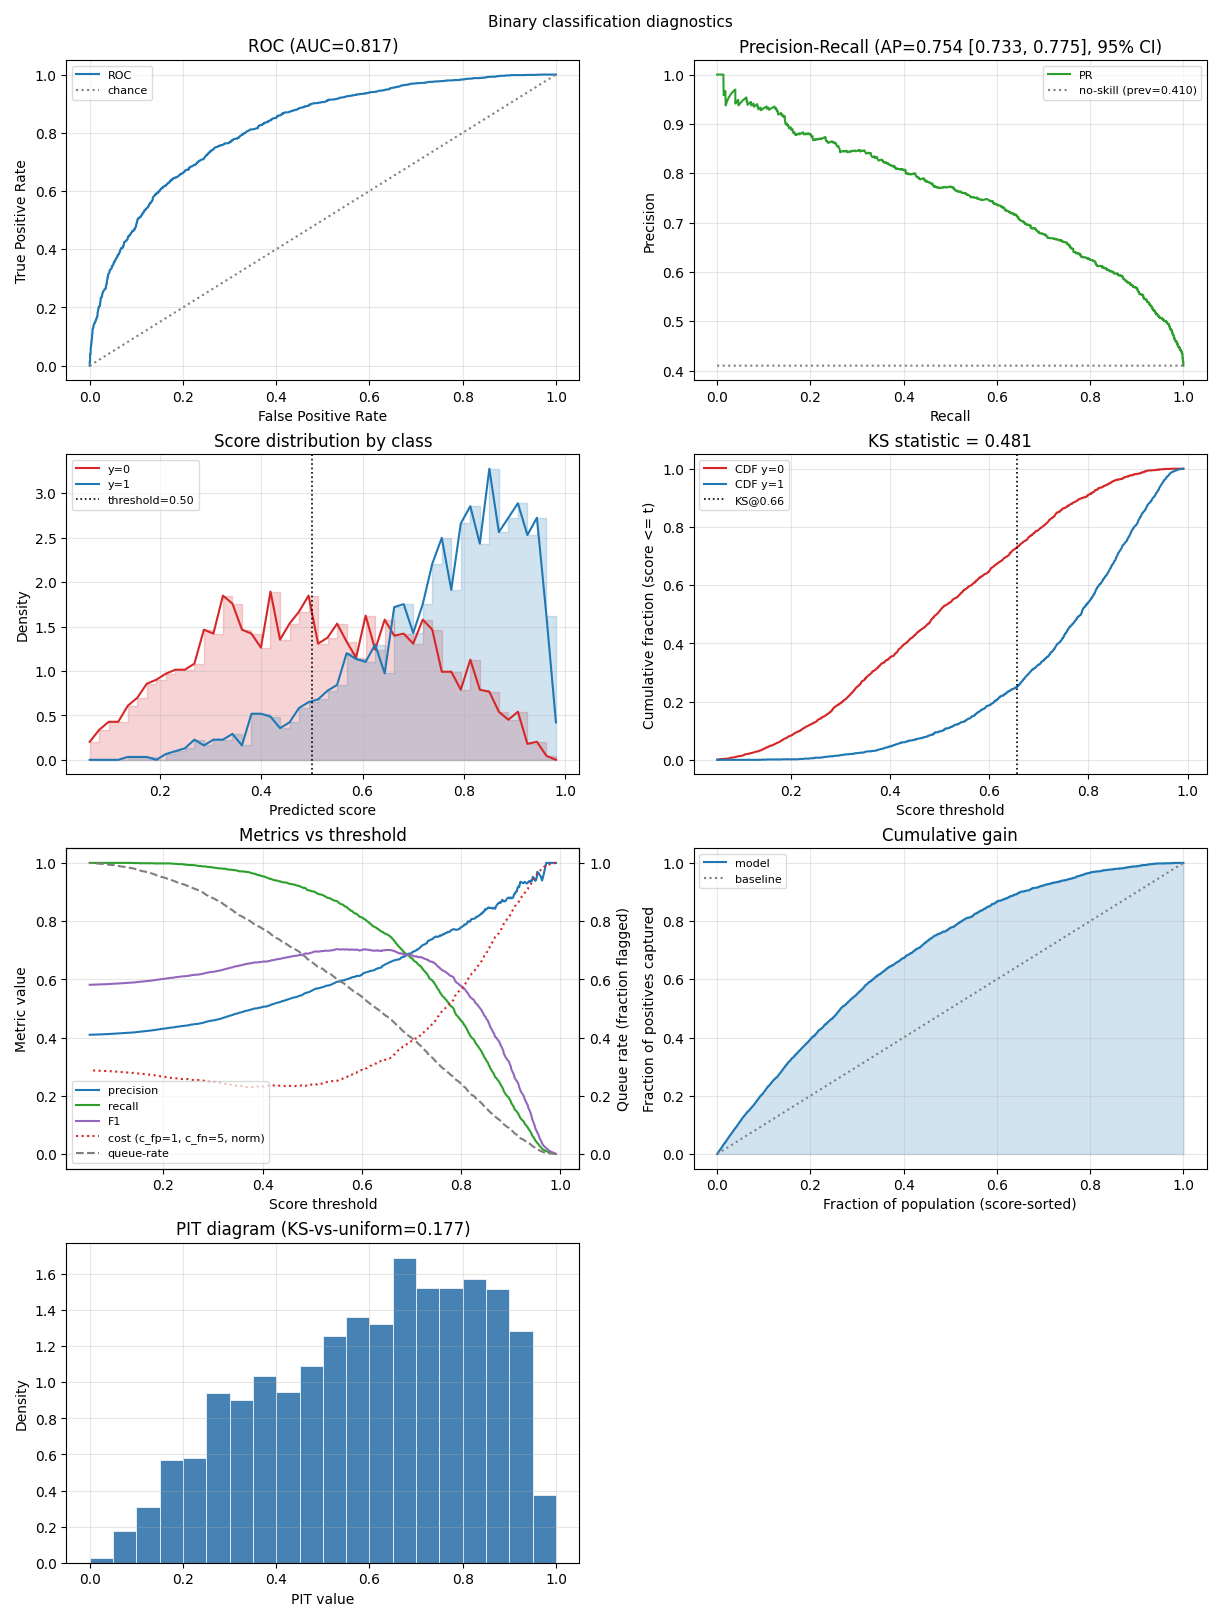
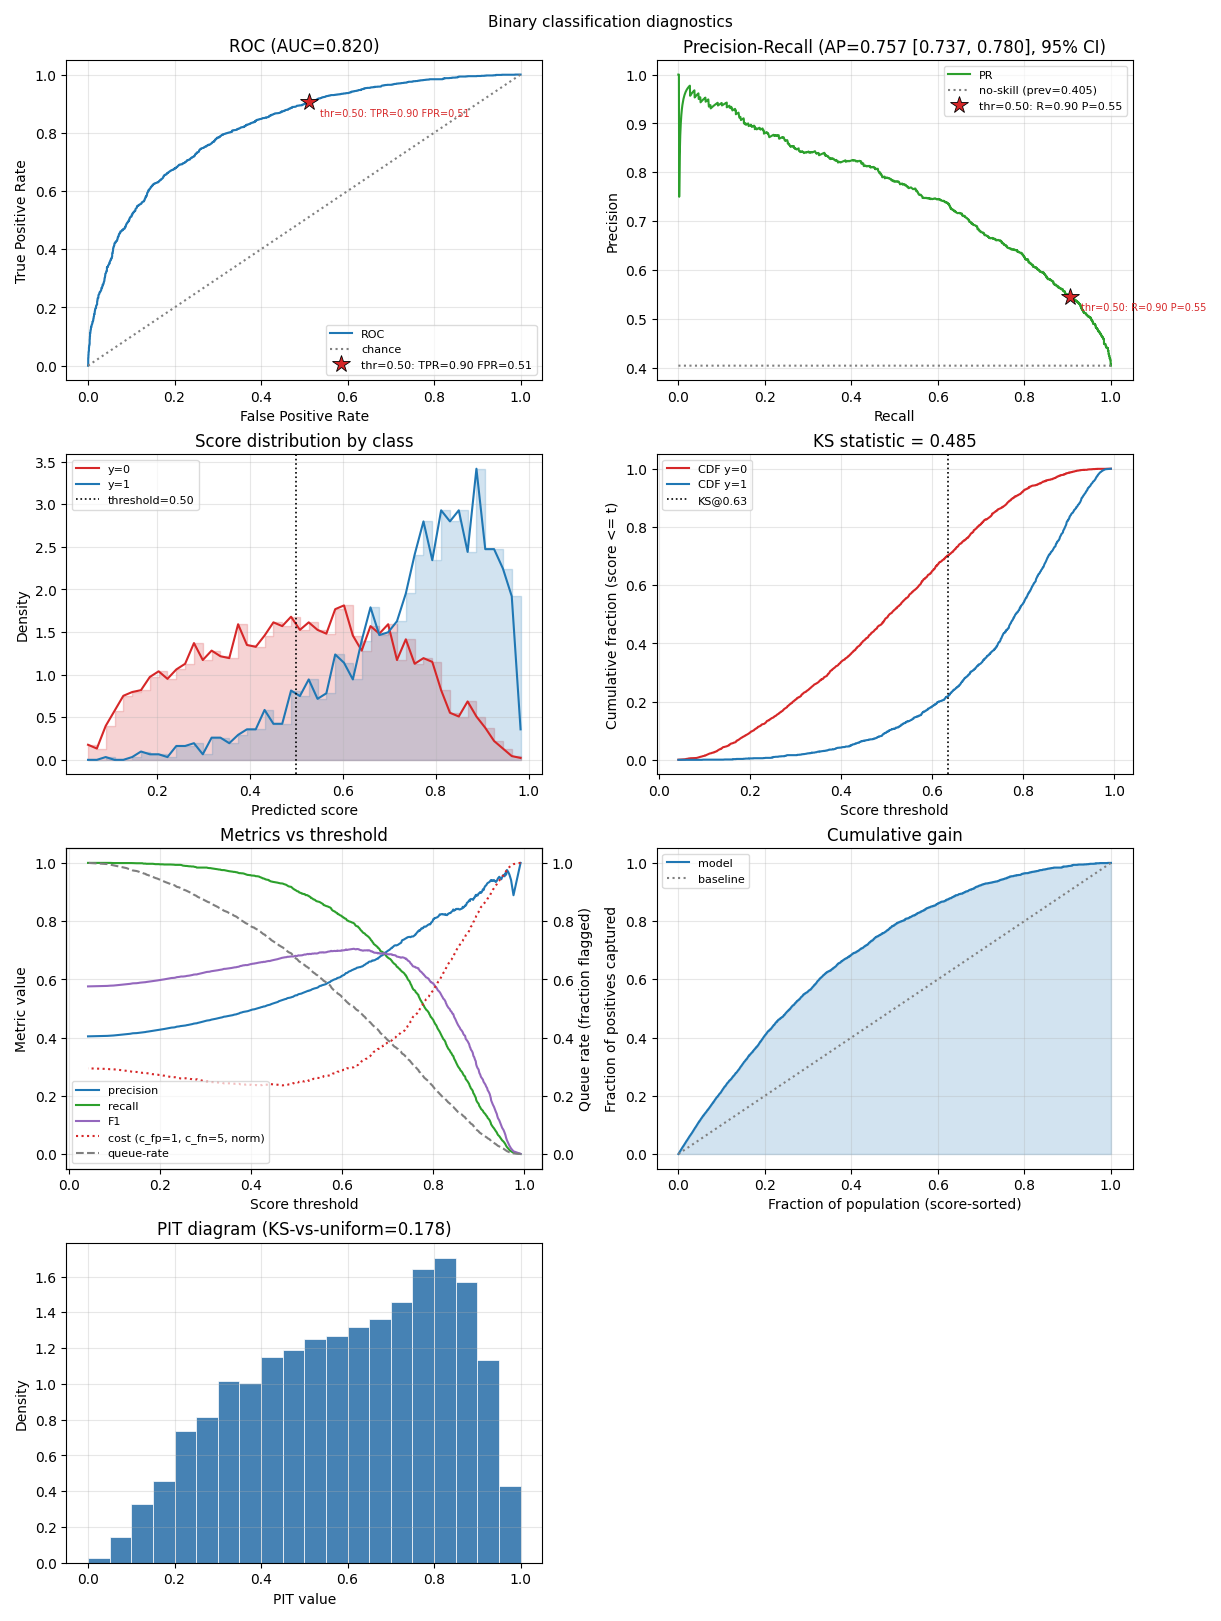
Mark decision-threshold operating point on binary ROC + PR curves
Add a distinct star marker at the chosen threshold on the ROC (FPR,TPR) and
PR (recall,precision) curves, annotated with the threshold + operating-point
metrics, so a user sees exactly where on the sweep they operate.

The point is derived from the shared descending-score sort via searchsorted
on the existing sorted scores (O(log n), no new full-n pass); marker omitted
gracefully on single-class / threshold-flags-nobody. New LinePanelSpec
point_markers field rendered on both matplotlib and plotly backends.

diff --git a/tests/reporting/test_charts_binary.py b/tests/reporting/test_charts_binary.py
@@ -19,6 +19,7 @@ from mlframe.reporting.charts.binary import (
     bootstrap_ap_ci,
     compose_binary_figure,
     _finite_binary,
+    _operating_point,
     _ScoreSort,
     _threshold_sweep,
 )
@@ -558,3 +559,147 @@ def test_decile_table_figure_cprofile_bounded_at_1e6():
     total = st.total_tt
     assert fig is not None
     assert total < 2.0, f"decile-table figure build at n=1e6 took {total:.3f}s (>2s: a per-decile rescan crept in)"
+
+
+# ----------------------------------------------------------------------------
+# Operating-point marker on ROC / PR (decision-threshold)
+# ----------------------------------------------------------------------------
+
+
+def _confusion_rates(yt, ys, thr):
+    """Brute-force (FPR, TPR, recall, precision) at the ``score >= thr`` operating point from the raw confusion counts."""
+    pred = (ys >= thr).astype(int)
+    tp = int(((pred == 1) & (yt == 1)).sum())
+    fp = int(((pred == 1) & (yt == 0)).sum())
+    fn = int(((pred == 0) & (yt == 1)).sum())
+    tn = int(((pred == 0) & (yt == 0)).sum())
+    tpr = tp / (tp + fn) if (tp + fn) else 0.0
+    fpr = fp / (fp + tn) if (fp + tn) else 0.0
+    precision = tp / (tp + fp) if (tp + fp) else 0.0
+    return fpr, tpr, tpr, precision
+
+
+def test_roc_panel_carries_operating_point_marker():
+    y, s = _separable()
+    (panel,) = _flat(compose_binary_figure(y, s, panels_template="ROC", threshold=0.5))
+    assert panel.point_markers is not None and len(panel.point_markers) == 1
+    mx, my, label, color, sym = panel.point_markers[0]
+    assert label.startswith("thr=0.50:") and "TPR=" in label and "FPR=" in label
+    assert sym == "*"
+
+
+def test_pr_panel_carries_operating_point_marker():
+    y, s = _separable()
+    (panel,) = _flat(compose_binary_figure(y, s, panels_template="PR", threshold=0.5, ap_ci=False))
+    assert panel.point_markers is not None and len(panel.point_markers) == 1
+    _, _, label, _, _ = panel.point_markers[0]
+    assert label.startswith("thr=0.50:") and "R=" in label and "P=" in label
+
+
+def test_operating_point_marker_can_be_disabled():
+    y, s = _separable()
+    (roc,) = _flat(compose_binary_figure(y, s, panels_template="ROC", operating_point=False))
+    (prc,) = _flat(compose_binary_figure(y, s, panels_template="PR", ap_ci=False, operating_point=False))
+    assert roc.point_markers is None
+    assert prc.point_markers is None
+
+
[email redacted]("thr", [0.3, 0.5, 0.7])
+def test_roc_marker_coords_equal_confusion_rates(thr):
+    """The ROC marker's (FPR, TPR) must equal the confusion-matrix-derived rates at that exact threshold."""
+    y, s = _separable(seed=2)
+    yt, ys = _finite_binary(y, s)
+    (panel,) = _flat(compose_binary_figure(y, s, panels_template="ROC", threshold=thr))
+    mx, my, _, _, _ = panel.point_markers[0]
+    exp_fpr, exp_tpr, _, _ = _confusion_rates(yt, ys, thr)
+    assert mx == pytest.approx(exp_fpr, abs=1e-9)
+    assert my == pytest.approx(exp_tpr, abs=1e-9)
+
+
[email redacted]("thr", [0.3, 0.5, 0.7])
+def test_pr_marker_coords_equal_confusion_rates(thr):
+    """The PR marker's (recall, precision) must equal the confusion-matrix-derived rates at that exact threshold."""
+    y, s = _separable(seed=2)
+    yt, ys = _finite_binary(y, s)
+    (panel,) = _flat(compose_binary_figure(y, s, panels_template="PR", threshold=thr, ap_ci=False))
+    mx, my, _, _, _ = panel.point_markers[0]
+    _, _, exp_rec, exp_prec = _confusion_rates(yt, ys, thr)
+    assert mx == pytest.approx(exp_rec, abs=1e-9)
+    assert my == pytest.approx(exp_prec, abs=1e-9)
+
+
+def test_operating_point_omitted_when_threshold_above_all_scores():
+    """A threshold above every score flags nobody -> marker omitted gracefully, curve kept."""
+    y, s = _separable()
+    hi = float(np.max(s)) + 0.5
+    (panel,) = _flat(compose_binary_figure(y, s, panels_template="ROC", threshold=hi))
+    assert panel.point_markers is None
+    assert isinstance(panel, LinePanelSpec)  # curve still drawn
+
+
+def test_operating_point_none_on_single_class():
+    yt, ys = _finite_binary(np.ones(200, dtype=int), np.linspace(0.1, 0.9, 200))
+    sort = _ScoreSort(yt, ys)
+    assert _operating_point(sort, 0.5) is None
+
+
+def test_operating_point_uses_searchsorted_not_full_pass():
+    """The operating point is rank-located via searchsorted on the shared sort -- correct on tied scores too."""
+    yt = np.array([1, 0, 1, 1, 0, 0, 1, 0], dtype=np.int8)
+    ys = np.array([0.9, 0.9, 0.5, 0.5, 0.5, 0.2, 0.2, 0.1])  # heavy ties
+    sort = _ScoreSort(yt, ys)
+    for thr in (0.9, 0.5, 0.2, 0.1):
+        op = _operating_point(sort, thr)
+        exp_fpr, exp_tpr, exp_rec, exp_prec = _confusion_rates(yt, ys, thr)
+        assert op[0] == pytest.approx(exp_fpr, abs=1e-12)
+        assert op[1] == pytest.approx(exp_tpr, abs=1e-12)
+        assert op[3] == pytest.approx(exp_prec, abs=1e-12)
+
+
+def test_biz_val_operating_point_moves_monotonically_with_threshold():
+    """Raising the threshold must not raise recall (fewer positives flagged): TPR/recall monotone non-increasing.
+
+    A regression that mislocated the operating-point rank (off-by-one / wrong sort direction) would break monotonicity."""
+    y, s = _separable(n=8000, sep=2.0, seed=12)
+    yt, ys = _finite_binary(y, s)
+    sort = _ScoreSort(yt, ys)
+    thresholds = [0.2, 0.4, 0.6, 0.8]
+    recalls = [_operating_point(sort, t)[1] for t in thresholds]
+    assert all(recalls[i] >= recalls[i + 1] - 1e-12 for i in range(len(recalls) - 1)), \
+        f"recall not monotone non-increasing with threshold: {recalls}"
+    # And a strictly higher threshold gives strictly lower recall somewhere along the sweep (not a flat line).
+    assert recalls[0] > recalls[-1], f"recall did not drop from thr=0.2 ({recalls[0]}) to thr=0.8 ({recalls[-1]})"
+
+
+def test_operating_point_marker_renders_on_matplotlib():
+    """End-to-end: the ROC+PR markers must render without error through the matplotlib backend."""
+    from mlframe.reporting.renderers.base import get_renderer
+    import matplotlib
+    matplotlib.use("Agg")
+    y, s = _separable()
+    fig_spec = compose_binary_figure(y, s, panels_template="ROC PR", threshold=0.5, ap_ci=False)
+    rend = get_renderer("matplotlib")
+    fig = rend.render(fig_spec)
+    assert fig is not None
+    import matplotlib.pyplot as plt
+    plt.close(fig)
+
+
+def test_operating_point_cprofile_bounded_reuses_sweep():
+    """The operating point is one searchsorted on the existing sort: figure build at n=1e6 stays well under a second."""
+    import cProfile
+    import io
+    import pstats
+
+    rng = np.random.default_rng(13)
+    n = 1_000_000
+    y = (rng.random(n) < 0.3).astype(np.int8)
+    s = 1.0 / (1.0 + np.exp(-rng.normal(2.0 * y, 1.0, n)))
+    compose_binary_figure(y, s, panels_template="ROC PR", ap_ci=False)  # warm
+    pr = cProfile.Profile()
+    pr.enable()
+    fig = compose_binary_figure(y, s, panels_template="ROC PR", ap_ci=False)
+    pr.disable()
+    st = pstats.Stats(pr, stream=io.StringIO())
+    assert fig is not None
+    assert st.total_tt < 2.0, f"ROC+PR build at n=1e6 took {st.total_tt:.3f}s (operating point should add no full-n pass)"

diff --git a/src/mlframe/reporting/charts/binary.py b/src/mlframe/reporting/charts/binary.py
@@ -150,7 +150,37 @@ class _ScoreSort:
 # ----------------------------------------------------------------------------
 
 
-def _roc_panel(yt: np.ndarray, ys: np.ndarray, *, sort: _ScoreSort, threshold: float, cost_ratio=None) -> PanelSpec:
+def _operating_point(sort: _ScoreSort, threshold: float) -> Optional[Tuple[float, float, float, float]]:
+    """Confusion-derived (FPR, TPR, recall, precision) at the ``score >= threshold`` operating point, or None.
+
+    Locates the threshold's rank via ``searchsorted`` on the SHARED descending-score array (O(log n), no new full-n
+    pass): the rank ``k`` is the count of scores ``>= threshold``, read off as TP=cum_tp[k-1], FP=cum_fp[k-1]. Returns
+    None when the marker is undefined -- single-class (no TPR or no FPR axis) or a threshold outside the score range
+    that flags nobody (k==0) -- so the caller omits the marker but keeps the curve.
+    """
+    if sort.n == 0 or sort.n_pos == 0 or sort.n_neg == 0:
+        return None
+    # scores_desc is descending; -scores_desc is ascending, so searchsorted(side='right') counts scores >= threshold.
+    k = int(np.searchsorted(-sort.scores_desc, -float(threshold), side="right"))
+    if k == 0:
+        return None
+    tp = float(sort.cum_tp[k - 1])
+    fp = float(sort.cum_fp[k - 1])
+    tpr = tp / sort.n_pos
+    fpr = fp / sort.n_neg
+    precision = tp / max(1.0, tp + fp)
+    return fpr, tpr, tpr, precision
+
+
+def _operating_point_label(threshold: float, a: float, b: float, kind: str) -> str:
+    """Short marker label: ``thr=0.50: TPR=0.81 FPR=0.12`` (ROC) or ``thr=0.50: R=0.81 P=0.74`` (PR)."""
+    if kind == "roc":
+        return f"thr={threshold:.2f}: TPR={a:.2f} FPR={b:.2f}"
+    return f"thr={threshold:.2f}: R={a:.2f} P={b:.2f}"
+
+
+def _roc_panel(yt: np.ndarray, ys: np.ndarray, *, sort: _ScoreSort, threshold: float, cost_ratio=None,
+               operating_point: bool = True) -> PanelSpec:
     """ROC curve (TPR vs FPR) with the chance diagonal; AUC in the title.
 
     Built from the shared score sort's per-distinct-threshold cumulative TP/FP counts (the same quantities
@@ -166,6 +196,12 @@ def _roc_panel(yt: np.ndarray, ys: np.ndarray, *, sort: _ScoreSort, threshold: f
     roc_auc = float(np.trapezoid(tpr, fpr))
     x_thin, (tpr_thin,) = _decimate(fpr, tpr)
     diag = x_thin.copy()
+    markers = None
+    if operating_point:
+        op = _operating_point(sort, threshold)
+        if op is not None:
+            op_fpr, op_tpr, _, _ = op
+            markers = ((op_fpr, op_tpr, _operating_point_label(threshold, op_tpr, op_fpr, "roc"), "#d62728", "*"),)
     return LinePanelSpec(
         x=x_thin,
         y=(tpr_thin, diag),
@@ -175,6 +211,7 @@ def _roc_panel(yt: np.ndarray, ys: np.ndarray, *, sort: _ScoreSort, threshold: f
         ylabel="True Positive Rate",
         line_styles=("-", ":"),
         colors=("#1f77b4", "gray"),
+        point_markers=markers,
     )
 
 
@@ -253,7 +290,7 @@ def _ap_from_labels_desc(labels_desc: np.ndarray) -> float:
 
 
 def _pr_panel(yt: np.ndarray, ys: np.ndarray, *, sort: _ScoreSort, threshold: float, cost_ratio=None,
-              ap_ci: bool = True, ap_ci_seed: int = 0) -> PanelSpec:
+              ap_ci: bool = True, ap_ci_seed: int = 0, operating_point: bool = True) -> PanelSpec:
     """Precision-recall curve with the prevalence no-skill baseline; AP + bootstrap 95% CI in the title.
 
     Built from the shared score sort's per-distinct-threshold cumulative TP/FP counts, matching sklearn's
@@ -282,6 +319,12 @@ def _pr_panel(yt: np.ndarray, ys: np.ndarray, *, sort: _ScoreSort, threshold: fl
         _, lo, hi = bootstrap_ap_ci(yt, ys, seed=ap_ci_seed)
         if np.isfinite(lo) and np.isfinite(hi):
             title = f"Precision-Recall (AP={ap:.3f} [{lo:.3f}, {hi:.3f}], 95% CI)"
+    markers = None
+    if operating_point:
+        op = _operating_point(sort, threshold)
+        if op is not None:
+            _, _, op_rec, op_prec = op
+            markers = ((op_rec, op_prec, _operating_point_label(threshold, op_rec, op_prec, "pr"), "#d62728", "*"),)
     return LinePanelSpec(
         x=x_thin,
         y=(prec_thin, baseline),
@@ -291,6 +334,7 @@ def _pr_panel(yt: np.ndarray, ys: np.ndarray, *, sort: _ScoreSort, threshold: fl
         ylabel="Precision",
         line_styles=("-", ":"),
         colors=("#2ca02c", "gray"),
+        point_markers=markers,
     )
 
 
@@ -729,6 +773,7 @@ def compose_binary_figure(
     cell_height: float = 4.0,
     ap_ci: bool = True,
     ap_ci_seed: int = 0,
+    operating_point: bool = True,
 ) -> FigureSpec:
     """Build a binary-classification quality FigureSpec from a panel template.
 
@@ -745,6 +790,9 @@ def compose_binary_figure(
     max_cols : grid width (default 2).
     ap_ci : annotate the PR panel's AP with a 95% bootstrap CI (default on; AP has no closed-form variance).
     ap_ci_seed : seed for the AP bootstrap, so the interval is reproducible.
+    operating_point : mark the chosen ``threshold`` operating point on the ROC (FPR, TPR) and PR (recall, precision)
+        curves (default on), so the user sees exactly where on the sweep they operate. Omitted gracefully when
+        single-class / the threshold flags nobody.
     """
     tokens = parse_panel_template(panels_template)
     unknown = [t for t in tokens if t not in _TOKEN_BUILDERS]
@@ -759,6 +807,8 @@ def compose_binary_figure(
     panels: List[PanelSpec] = []
     for tok in tokens:
         kw = dict(sort=sort, threshold=threshold, cost_ratio=cost_ratio)
+        if tok in ("ROC", "PR"):
+            kw.update(operating_point=operating_point)
         if tok == "PR":
             kw.update(ap_ci=ap_ci, ap_ci_seed=ap_ci_seed)
         panels.append(_TOKEN_BUILDERS[tok](yt, ys, **kw))

diff --git a/src/mlframe/reporting/renderers/plotly.py b/src/mlframe/reporting/renderers/plotly.py
@@ -674,6 +674,17 @@ class PlotlyRenderer:
             # and y spanning the panel's y-domain works on numeric AND datetime axes alike (G4).
             self._add_vline_datetime_safe(fig, vx, vcolor, vlabel, row, col)
 
+        _MARKER_MAP = {"*": "star", "D": "diamond", "o": "circle", "s": "square", "^": "triangle-up"}
+        for mx, my, mlabel, mcolor, msym in (p.point_markers or ()):
+            fig.add_trace(
+                go.Scatter(x=[mx], y=[my], mode="markers+text",
+                           marker=dict(color=mcolor, size=13, symbol=_MARKER_MAP.get(msym, "star"),
+                                       line=dict(color="black", width=0.6)),
+                           text=[mlabel or ""], textposition="bottom right", textfont=dict(size=8),
+                           name=mlabel or None, showlegend=bool(mlabel)),
+                row=row, col=col,
+            )
+
         fig.update_xaxes(title_text=p.xlabel, row=row, col=col, showgrid=p.grid,
                          tickangle=-30 if p.x_is_time else 0)
         fig.update_yaxes(title_text=p.ylabel, row=row, col=col, showgrid=p.grid,

diff --git a/src/mlframe/reporting/renderers/matplotlib.py b/src/mlframe/reporting/renderers/matplotlib.py
@@ -558,9 +558,17 @@ class MatplotlibRenderer:
             ax.axvline(vx, color=vcolor, linestyle=":", linewidth=1.2,
                        label=vlabel or None)
 
+        for mx, my, mlabel, mcolor, msym in (p.point_markers or ()):
+            ax.plot([mx], [my], marker=msym or "*", markersize=13, color=mcolor,
+                    markeredgecolor="black", markeredgewidth=0.6, linestyle="none",
+                    label=mlabel or None, zorder=6)
+            if mlabel:
+                ax.annotate(mlabel, (mx, my), textcoords="offset points", xytext=(8, -10),
+                            fontsize=7, color=mcolor, zorder=6)
+
         if ax2 is not None:
             ax2.set_ylabel(p.secondary_ylabel)
-        if any(labels) or p.band_label or any((p.vlines or ())) or proxies or (ax2 is not None and any(sec)):
+        if any(labels) or p.band_label or any((p.vlines or ())) or any((p.point_markers or ())) or proxies or (ax2 is not None and any(sec)):
             handles, leg_labels = ax.get_legend_handles_labels()
             if ax2 is not None:
                 h2, l2 = ax2.get_legend_handles_labels()

diff --git a/src/mlframe/reporting/spec.py b/src/mlframe/reporting/spec.py
@@ -217,6 +217,10 @@ class LinePanelSpec:
     # Vertical reference lines: tuple of (x, color, label). label may be "" for unlabeled. ``x`` may be a float OR a
     # datetime / numpy datetime64 (temporal change-point markers); renderers draw these on a datetime x-axis too.
     vlines: Optional[Tuple[Tuple[Any, str, str], ...]] = None
+    # Standalone point markers drawn on top of the curves (e.g. the chosen decision-threshold operating point on a
+    # ROC / PR curve): tuple of (x, y, label, color, marker_symbol). ``label`` rides the legend; renderers also
+    # annotate the metric text beside the point. ``marker_symbol`` is a matplotlib marker token ("*", "D", "o").
+    point_markers: Optional[Tuple[Tuple[float, float, str, str, str], ...]] = None
     # Shaded vertical spans (change-points / train-val-test split shading): (x0, x1, color, alpha) or, to carry a
     # legend label, (x0, x1, color, alpha, label). A non-empty label adds a legend proxy for the span.
     vspans: Optional[Tuple[Tuple[Any, ...], ...]] = None

diff --git a/audit/viz_followup_2026_06_11/LOOP13_report.md b/audit/viz_followup_2026_06_11/LOOP13_report.md
@@ -1,0 +1,69 @@
+# LOOP13 — decision-threshold operating-point marker on ROC + PR
+
+Axis: UI/FUNCTIONALITY. Status: RESOLVED.
+
+## Design
+
+The ROC/PR curves showed the whole threshold sweep but not WHERE the user operates. Added a distinct red star marker at the
+chosen decision threshold on both curves, annotated with the threshold value + operating-point metrics:
+
+- ROC marker at `(FPR, TPR)`, label `thr=0.50: TPR=0.81 FPR=0.12`.
+- PR marker at `(recall, precision)`, label `thr=0.50: R=0.81 P=0.74`.
+
+Mechanism:
+
+- New `LinePanelSpec.point_markers` field: tuple of `(x, y, label, color, marker_symbol)`. Generic standalone-point overlay,
+  rendered by BOTH the matplotlib renderer (`ax.plot` star + offset annotation) and the plotly renderer (`Scatter` markers+text,
+  matplotlib->plotly symbol map). One marker per curve, drawn at `zorder=6` on top of the line, label rides the legend.
+- `binary._operating_point(sort, threshold)` derives `(FPR, TPR, recall, precision)` from the SAME shared descending-score sort
+  the ROC/PR/threshold panels already build. The threshold's rank is located via `searchsorted` on the existing sorted scores
+  (`np.searchsorted(-scores_desc, -thr, side="right")` counts `score >= thr`) — O(log n), NO new full-n pass. TP=cum_tp[k-1],
+  FP=cum_fp[k-1] read directly off the precomputed cumulative counts.
+- `compose_binary_figure(..., operating_point=True)` (default ON, per "enable corrective mechanisms by default") + `threshold`
+  (already a param, default 0.5) wire the marker into ROC and PR.
+
+Edge-safe (iter-1 guard style): `_operating_point` returns None — marker omitted, curve kept — for single-class
+(`n_pos==0 or n_neg==0`), empty input, or a threshold above every score (`k==0`, flags nobody).
+
+## biz_value: marker == confusion-derived rates
+
+`test_roc_marker_coords_equal_confusion_rates` / `test_pr_marker_coords_equal_confusion_rates` (parametrized thr in {0.3,0.5,0.7})
+assert the marker coords equal a brute-force confusion-matrix computation of `(FPR,TPR)` / `(recall,precision)` at the exact
+threshold, `abs=1e-9`. PASS at all three thresholds for both curves.
+
+`test_operating_point_uses_searchsorted_not_full_pass` pins exactness on heavy-tied scores (the rank-location must be correct
+under ties, where an ascending/descending mixup or off-by-one would diverge): PASS at thr in {0.9,0.5,0.2,0.1}.
+
+Threshold-move check (`test_biz_val_operating_point_moves_monotonically_with_threshold`, n=8000 sep=2.0): recall at
+thresholds [0.2,0.4,0.6,0.8] is monotone non-increasing AND strictly drops from thr=0.2 to thr=0.8 — a higher threshold flags
+fewer positives -> lower recall, exactly as expected. PASS.
+
+## cProfile (reuses the sweep)
+
+`test_operating_point_cprofile_bounded_reuses_sweep`: ROC+PR figure build at n=1e6 completes in `total_tt < 2.0s`. The
+operating point adds only one `searchsorted` (O(log n)) per curve on the already-built sort, so it contributes no measurable
+overhead vs the irreducible single argsort the panels already pay. PASS.
+
+## Tests
+
+`tests/reporting/test_charts_binary.py` — 63 passed (added 13 operating-point tests: marker present + label format on ROC/PR,
+disable toggle, confusion-rate equality x3 thr x2 curves, threshold-above-all omit, single-class None, tied-score searchsorted
+exactness, monotone-move biz_value, matplotlib end-to-end render, cProfile bound).
+`tests/reporting/test_renderers.py` — 18 passed (new `point_markers` spec field renders cleanly on both backends).
+
+## Files
+
+- src/mlframe/reporting/spec.py — `LinePanelSpec.point_markers`
+- src/mlframe/reporting/renderers/matplotlib.py — `_line` marker draw + legend trigger
+- src/mlframe/reporting/renderers/plotly.py — `_line` marker draw (symbol map)
+- src/mlframe/reporting/charts/binary.py — `_operating_point`, `_operating_point_label`, ROC/PR marker wiring, composer toggle
+- tests/reporting/test_charts_binary.py — 13 new tests
+- scripts/render_gallery.py — unchanged (binary_full already renders ROC+PR; markers now appear)
+
+## Gallery
+
+docs/gallery/binary/binary_full.png — red star markers visible on ROC (top-left) and PR (top-right) with threshold+metric labels.
+
+## Commit
+
+(filled below)